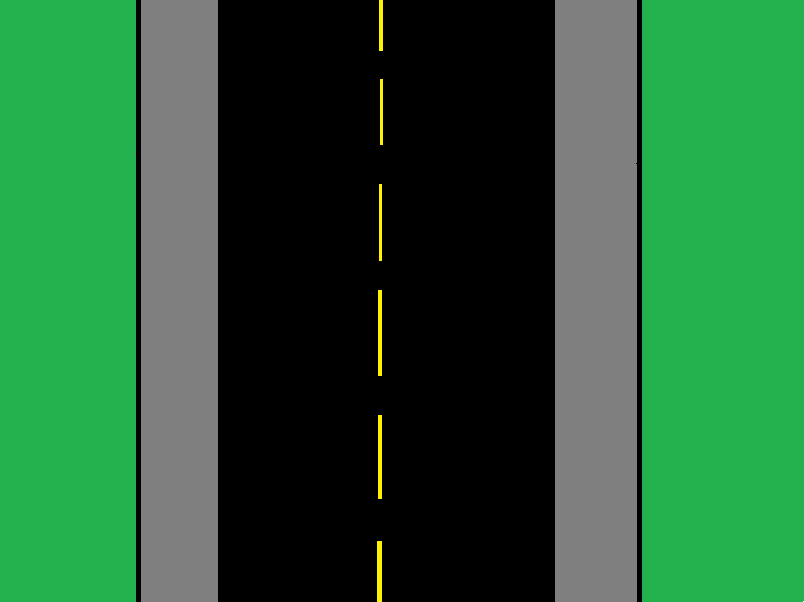
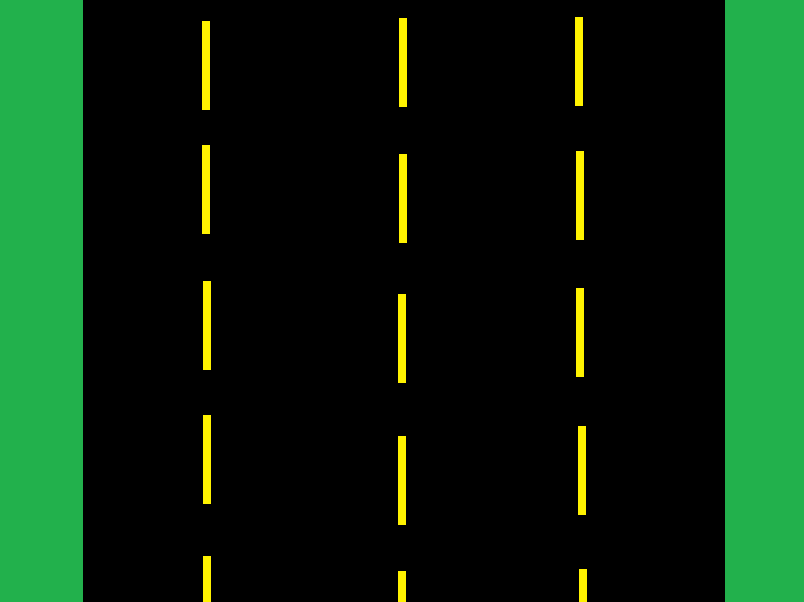
Atualização dia 16/08/2022

diff --git a/game.py b/game.py
@@ -1,15 +1,20 @@
+from random import randint
+
 import pygame
 
 pygame.init()
-x = 285
+x = 400
 y = 255
-pos_x = 200
-pos_y = 400
-pos_y_b = 800
-pos_y_c = 1700
+pos_x = 40
+pos_x_a = 40
+pos_x_b = 400
+pos_x_c = 400
+pos_y = 500
+pos_y_b = 600
+pos_y_c = 900
 pos_y_d = 400
 
-velocity = 10
+velocity = 15
 velocity_outer = 15
 
 fundo = pygame.image.load('Estrada.png')
@@ -31,38 +36,38 @@ while janela_aberta:
             janela_aberta = False
 
     command = pygame.key.get_pressed()
-    if command[pygame.K_w]:
+    if command[pygame.K_w] and y >= -5:
         y -= velocity
-    if command[pygame.K_s]:
+    if command[pygame.K_s] and y <= 430:
         y += velocity
-    if command[pygame.K_d]:
+    if command[pygame.K_d] and x <= 595:
         x += velocity
-    if command[pygame.K_a]:
+    if command[pygame.K_a] and x >= 15:
         x -= velocity
 
     if pos_y <= -200:
-        pos_y = 600
+        pos_y = randint(600, 1000)
 
     if pos_y_c <= -200:
-        pos_y_c = 600
+        pos_y_c = randint(600, 1000)
 
     if pos_y_b <= -200:
-        pos_y_b = 600
+        pos_y_b = randint(600, 1000)
 
     if pos_y_d <= -200:
-        pos_y_d = 600
+        pos_y_d = randint(600, 1000)
 
     pos_y -= velocity_outer + 5
-    pos_y_b -= velocity_outer + 1
-    pos_y_c -= velocity_outer + 5
-    pos_y_d -= velocity_outer + 1
+    pos_y_b -= velocity_outer + 3
+    pos_y_c -= velocity_outer + 2
+    pos_y_d -= velocity_outer + 4
 
     janela.blit(fundo, (0, 0,))
     janela.blit(carro_preto, (x, y))
-    janela.blit(ambulancia, (pos_x, pos_y))
+    janela.blit(ambulancia, (pos_x_a, pos_y))
     janela.blit(policia, (pos_x + 170, pos_y_b))
-    janela.blit(caminhonete, (pos_x, pos_y_c))
-    janela.blit(policia_2, (pos_x + 170, pos_y_d))
+    janela.blit(caminhonete, (pos_x_b, pos_y_c))
+    janela.blit(policia_2, (pos_x_c + 170, pos_y_d))
     pygame.display.update()
 
 pygame.quit()

diff --git a/README.md b/README.md
@@ -16,3 +16,9 @@
 - Coloquei movimento nelas.
 - Basicamente está jogavél, mas nem tanto rs.
 
+### ** Atualização ** --Dia 16/08/2022
+
+- Adicionei colisão com a parede(limites do mapa).
+- Coloquei "randomização" nos veiculos.
+- Modifiquei a estrada para uma maior com mais espaço para o jogador e para os carros.
+
